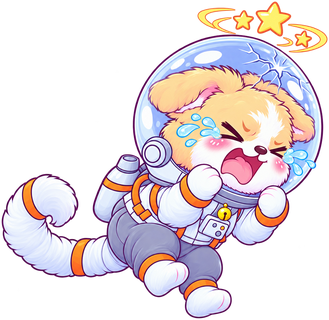
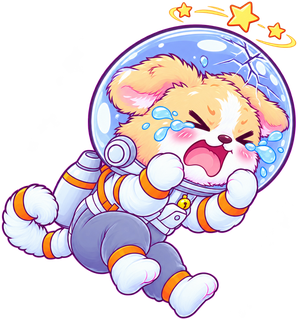
v0.8.04 방울이 우주복 꼬리를 땅 위처럼 짧고 말리게 — 원본·헤엄 64장·맞은 그림 다시

diff --git a/index.html b/index.html
@@ -1027,7 +1027,7 @@
   const elTitle = document.getElementById("overTitle");
   const coinNote = document.getElementById("coinNote");
 
-  const GAME_VERSION = "v0.8.03";
+  const GAME_VERSION = "v0.8.04";
   /* 제작사 스플래시(bamhobak friends 로고) — 2026-09-20 끔. 다시 켜려면 true */
   const SPLASH_USE = false;   // 코드를 고칠 때마다 뒤 두 자리를 올린다
   document.getElementById("ver").textContent = GAME_VERSION;
@@ -1572,10 +1572,14 @@
        꼬리는 우주복 꼬리 덮개 안에 넣었다(OpenAI space2_3). 헤엄은 Ludo 56장 시트(8x7, 칸 231x200) —
        "귀는 헬멧 안에서 살짝만, 헬멧은 모양이 안 변함". 맞은 그림(spacehurt2_3)은 얼굴을 찌푸려 작게
        잡히므로 얼굴 대신 헬멧 지름이 헤엄 때와 같아지게 adj 를 잡았다 (안 그러면 맞는 순간 16% 커진다). */
-    right: { img: null, aspect: 1.1538, head: 0.418, cx: 0.662, cy: 0.395, adj: 0.5710,
-             bcx: 0.500, bcy: 0.550, brr: 0.560, float: true },
-    hurt:  { img: null, aspect: 1.0281, head: 0.360, cx: 0.690, cy: 0.415, adj: 0.5130,
-             bcx: 0.500, bcy: 0.550, brr: 0.550 }
+    /* v0.8.04 꼬리를 다시 — 땅 위에서는 짧고 등 위로 말려 있는데 우주복에서는 길게 뻗고 펴져 보였다.
+       원본(space3_1)은 땅 위 꼬리를 참고로 짧게 말린 꼬리 덮개로 다시 뽑고, Ludo 에는 "꼬리는 말린 채
+       절대 펴지지 않고 살짝만 튄다"를 못 박았다. 헤엄 64장 시트(8x8, 칸 190x200), 맞은 그림 spacehurt3_1.
+       얼굴 크기는 adj 0.571 로 땅 위와 같고, 맞은 그림은 헬멧 지름이 헤엄 때와 같아지게 adj 를 잡았다. */
+    right: { img: null, aspect: 0.9515, head: 0.430, cx: 0.640, cy: 0.380, adj: 0.5710,
+             bcx: 0.500, bcy: 0.520, brr: 0.520, float: true },
+    hurt:  { img: null, aspect: 0.9313, head: 0.465, cx: 0.700, cy: 0.420, adj: 0.5920,
+             bcx: 0.520, bcy: 0.520, brr: 0.520 }
   };
   /* 무소유 전용 우주복 —
      헬멧이 판정원이라 지름·중심을 재어 넣었다 (몸 높이는 다른 직업과 같은 1.475D). */
@@ -1786,7 +1790,7 @@
   }
   // 방울이는 걷지 않고 허공에서 개헤엄 친다 — 땅 위·우주복 모두 Ludo 49장
   loadSheetFrames(SPR_BANGUL, "bangul_swim_sheet.webp", 7, 49, true);
-  loadSheetFrames(SPR_BANGUL_SPACE, "bangul_space_swim_sheet.webp", 8, 56, true);
+  loadSheetFrames(SPR_BANGUL_SPACE, "bangul_space_swim_sheet.webp", 8, 64, true);
 
   // 도와줘 정연핑 — 아래에서 위로 날아가며 지나간 자리의 똥을 부순다
   let helperImg = null, helperSpaceImg = null;

diff --git a/README.md b/README.md
@@ -5,7 +5,7 @@
 👉 **플레이: https://bamhobak.github.io/ddongpi/**
 
 > 이 문서는 `index.html` 의 실제 값을 옮겨 적은 것입니다. 숫자를 고쳤으면 여기도 같이 고쳐 주세요.
-> 마지막으로 맞춰 본 판: **v0.8.03**
+> 마지막으로 맞춰 본 판: **v0.8.04**
 
 ## 조작
 - 📱 모바일: 화면 아무 데나 손가락을 대고 좌우로 **끌기** (누른 자리가 기준점 — 순간이동하지 않음). 조작은 이 하나뿐입니다 — 십자패드는 v0.8.02 에 없앴습니다
@@ -292,8 +292,8 @@
 |---|---|---|
 | `bangul_right.png` (얌전히 앉은 정면) | OpenAI `gpt-image-2` (`tools/gen_sprite.py`) | **소개 전용** — 직업 카드·직업 소개·순위표 |
 | `bangul_hurt.png` (맞았을 때, 1초) | OpenAI — 머리에 혹·별, 눈 `> <`, 눈물, 엉엉 | 게임 안 |
-| `bangul_space_right.png` (우주복 정지) | OpenAI — 유리 헬멧·흰 옷 주황 줄·산소통, **큰 헬멧(귀가 여유 있게 안에)**, 꼬리는 **우주복 꼬리 덮개** 안 (v0.7.97) | 우주복 헤엄의 원본 |
-| `bangul_space_swim_sheet.webp` (우주 개헤엄 56장, 78초~) | 위 그림을 Ludo 로 움직임 (귀는 헬멧 안에서 살짝만 까딱, 꼬리 덮개째 살랑) | 게임 안 |
+| `bangul_space_right.png` (우주복 정지) | OpenAI — 유리 헬멧·흰 옷 주황 줄·산소통, **큰 헬멧(귀가 여유 있게 안에)**, 꼬리는 **우주복 꼬리 덮개** 안 — 땅 위처럼 **짧고 등 위로 말린** 모양 (v0.8.04) | 우주복 헤엄의 원본 |
+| `bangul_space_swim_sheet.webp` (우주 개헤엄 64장, 78초~) | 위 그림을 Ludo 로 움직임 (귀는 헬멧 안에서 살짝만 까딱, 꼬리는 말린 채 살짝만 튐 — 펴지지 않게) | 게임 안 |
 | `bangul_space_hurt.png` (우주에서 맞았을 때) | OpenAI — 헬멧에 금, `> <` 로 엉엉, 별 (새 큰 헬멧·꼬리 덮개) | 게임 안 |
 | `bangul_swim_sheet.webp` (개헤엄 49장, 7×7 시트) | 위 그림을 Ludo `animateSprite`(hydra, 3초, "귀가 날개처럼 크게 펄럭이게")로 움직임 | 게임 안 |
 
